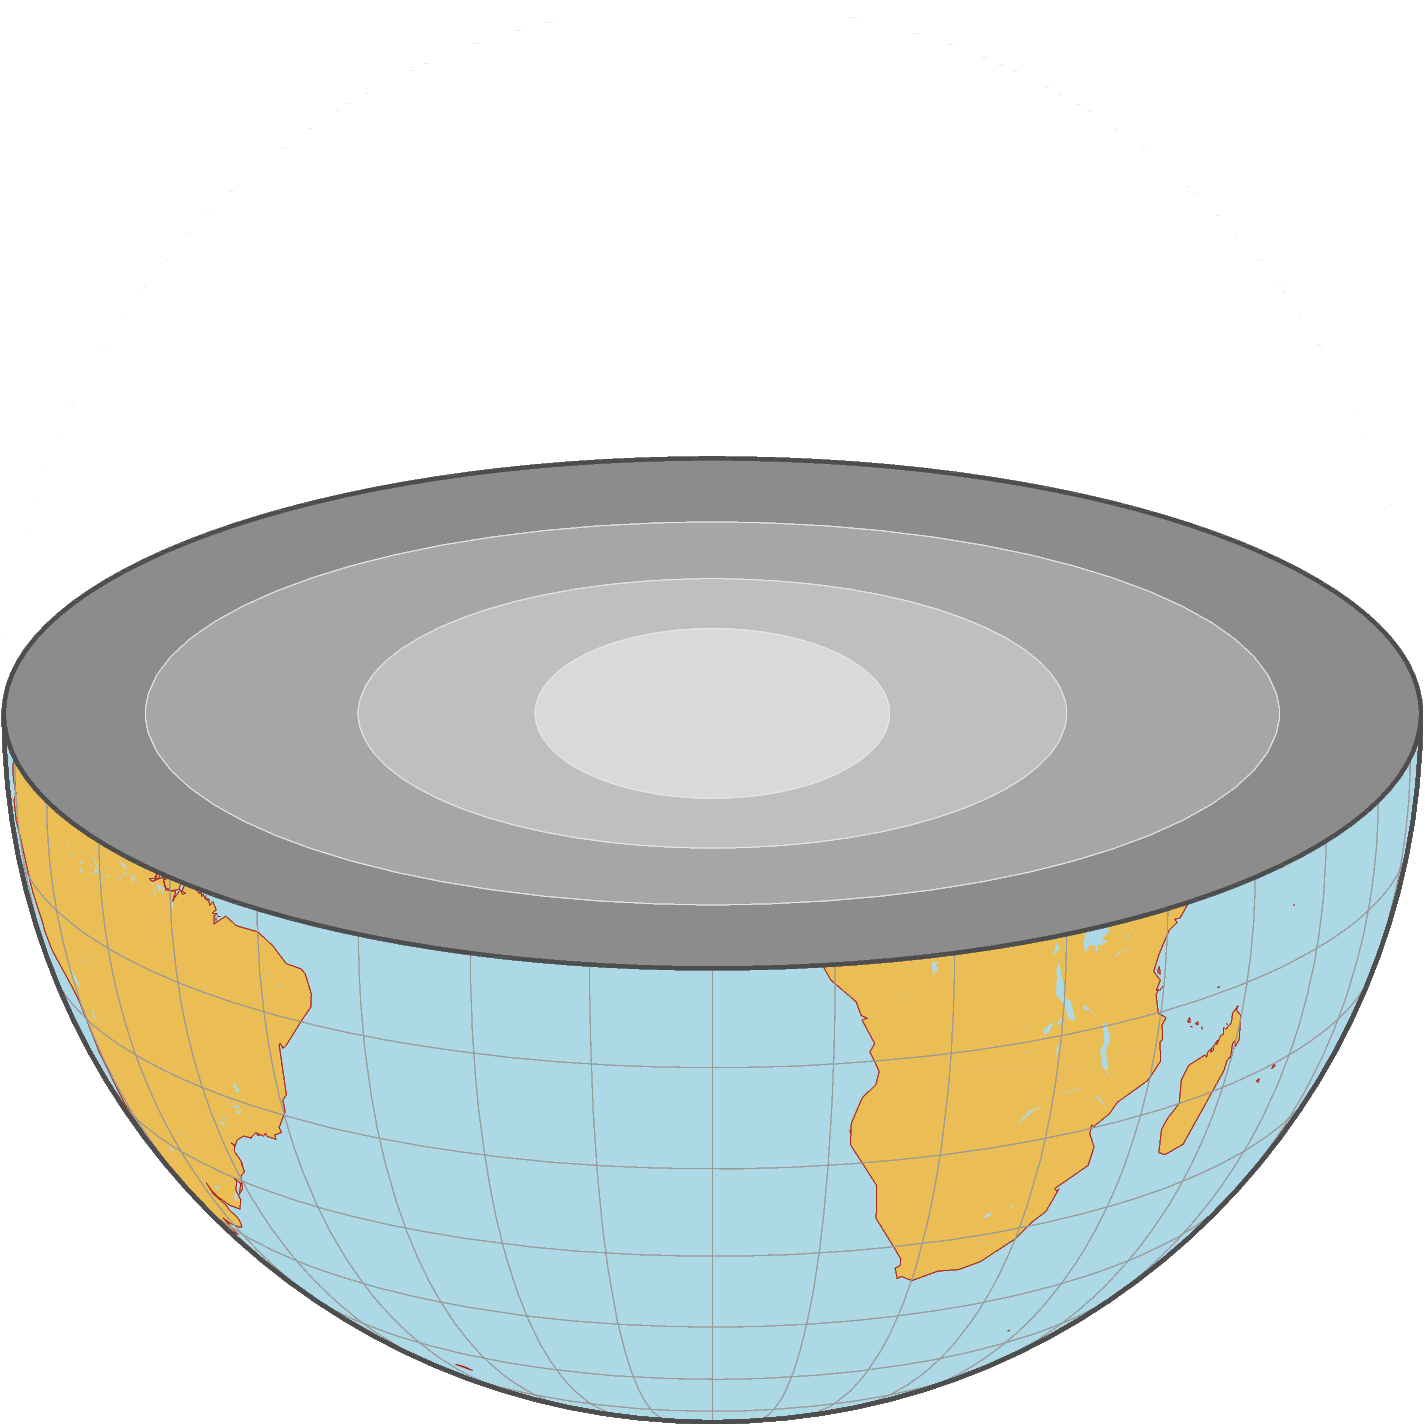
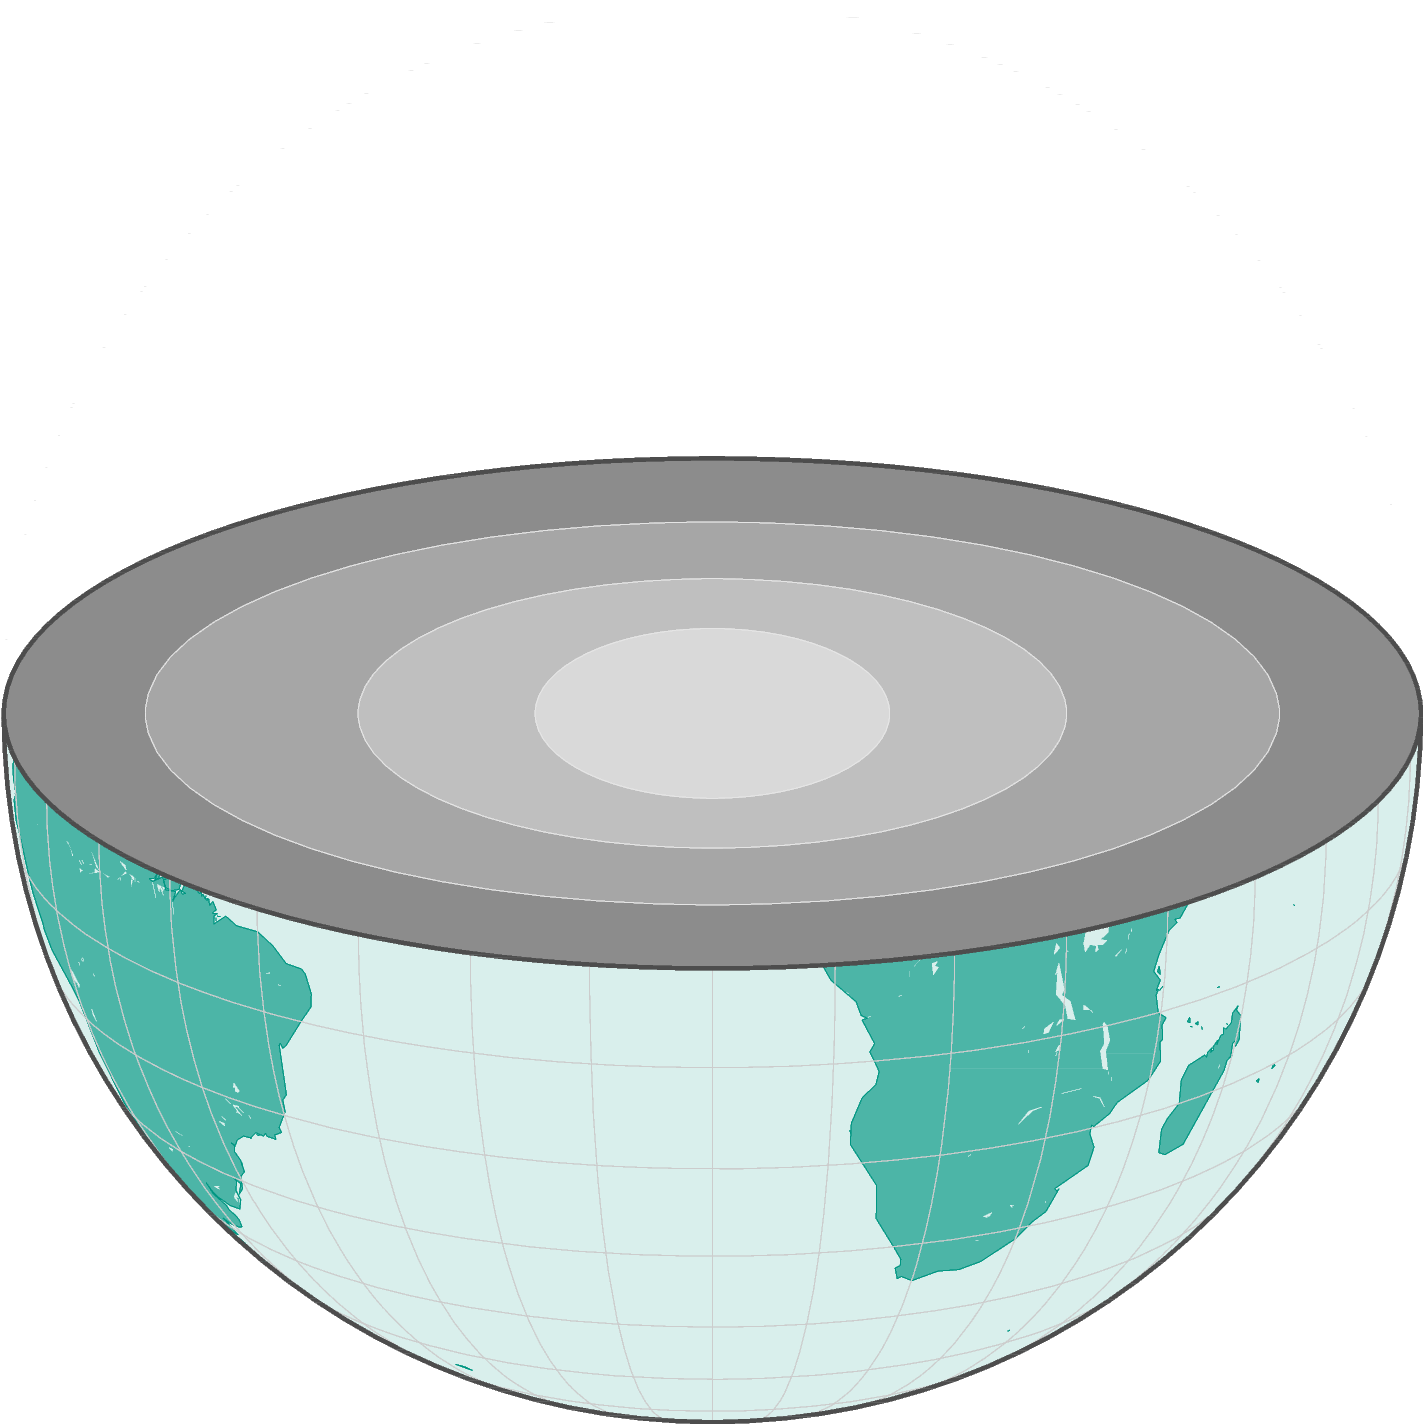
Add 'northeast_quadrant' and use KIT colors

Changed region(s): [[0.0, 0.5253, 1.0, 1.0]]

diff --git a/000_general_stuff/04_earth_section/earth_section.py b/000_general_stuff/04_earth_section/earth_section.py
@@ -1,6 +1,8 @@
 # -*- coding: utf-8 -*-
 # #############################################################################
 # Earth section
+# >>> Not to scale <<<
+# -> Adjust the ellipse for your needs
 # -----------------------------------------------------------------------------
 # History
 # - Created: 2025/01/12
@@ -21,13 +23,14 @@ import pygmt
 
 def earth_section(
     section_type,
-    color_land = "lightbrown",
-    color_water = "lightblue",
-    color_shorelines = "brown",
+    color_land = "76/181/167",
+    color_water = "217/239/236",
+    color_shorelines = "0/150/130",
     color_cover = "white",
-    pen_grid = "0.1p,gray60",
+    pen_grid = "0.1p,gray80",
     pen_map = "0.8p,gray30",
     pen_sec = "0.01p,gray90",
+    pen_qua = "0.5p,gray30,dashed",
     path_out = ""
 ):
     """
@@ -69,8 +72,11 @@ def earth_section(
             y_sec = [lat_lim, lat_lim, -lat_lim, -lat_lim]
         case "half_horizontal":
             projection = "G0/20/10c"
-            x_qua = [-10, -89, 90, 40]
+        case "northeast_quadrant":
+            projection = "G0/5/10c"
+            x_qua = [-10, -10, 100, 40]
             y_qua = [90, 0, 0, 90]
+
 
     fig.coast(
         projection=projection,
@@ -108,15 +114,26 @@ def earth_section(
             fig.plot(x=0, y=0, style="e90/2.5/1.2", pen=pen_sec, fill="gray85")
 
         case "half_horizontal":
-            # fig.plot(x=x_qua, y=y_qua, fill=color_cover, pen=None)
-
-            fig.plot(x=0, y=20, style="w10c/0/180", fill=color_cover, pen="1.5p,white", no_clip=True)
-            fig.plot(x=0, y=20, style="w10c/-180/0", pen=pen_map, no_clip=True)
+            fig.plot(x=0, y=20, style="w10c/0/180", pen="1.5p,white", fill=color_cover, no_clip=True)
 
             fig.plot(x=0, y=20, style="e0/10.0/3.6", pen=pen_map, fill="gray55", no_clip=True)
             fig.plot(x=0, y=20, style="e0/8.0/2.7", pen=pen_sec, fill="gray65")
             fig.plot(x=0, y=20, style="e0/5.0/1.9", pen=pen_sec, fill="gray75")
             fig.plot(x=0, y=20, style="e0/2.5/1.2", pen=pen_sec, fill="gray85")
+
+        case "northeast_quadrant":
+            fig.plot(x=x_qua, y=y_qua, fill="gray95", pen=pen_map)
+
+            fig.plot(x=[0, 0], y=[90, 10], pen=pen_qua)
+            fig.plot(x=[-10, 0], y=[0, 10], pen=pen_qua)
+            fig.plot(x=[0, 90], y=[10, 0], pen=pen_qua)
+
+            fig.coast(
+                land=f"{color_land}@90",
+                water=f"{color_water}@90",
+                shorelines=f"1/0.01p,{color_shorelines}@50",
+            )
+            fig.basemap(frame="g10")
 
 # -----------------------------------------------------------------------------
     fig.show()
@@ -133,5 +150,5 @@ def earth_section(
 # -----------------------------------------------------------------------------
 # Example
 # -----------------------------------------------------------------------------
-for section_type in ["open_vertical", "half_vertical", "half_horizontal"]:
+for section_type in ["open_vertical", "half_vertical", "half_horizontal", "northeast_quadrant"]:
     earth_section(section_type=section_type)
